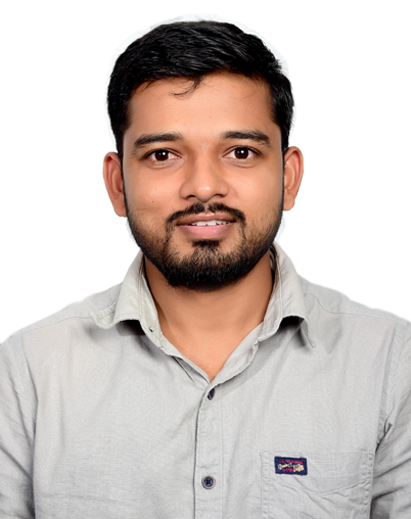
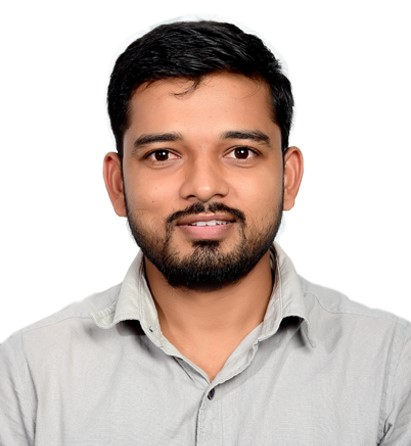
[2] revamp started

diff --git a/src/constants/data.jsx b/src/constants/data.jsx
@@ -18,11 +18,12 @@ import {
   // WordPressIcon,
   // AngularIcon,
 } from "../assets/icons/LanguageIcon";
+import { netflix } from "./const";
 
 export const portfolio = [
   {
     id: "1",
-    src: "./img/project-front-img.png",
+    src: netflix,
     techStack:"React | Redux Toolkit | Tailwind CSS | Firebase | GitHub",
     title: "Netflix GPT",
     description:
@@ -32,7 +33,7 @@ export const portfolio = [
   },
   {
     id: "2",
-    src: "./img/project-front-img.png",
+    src: netflix,
     techStack:"React | Redux Toolkit | Tailwind CSS | Firebase | GitHub",
     title: "Netflix GPT",
     description:
@@ -42,7 +43,7 @@ export const portfolio = [
   },
   {
     id: "3",
-    src: "./img/project-front-img.png",
+    src: netflix,
     techStack:"React | Redux Toolkit | Tailwind CSS | Firebase | GitHub",
     title: "Netflix GPT",
     description:

diff --git a/src/component/AboutMe.jsx b/src/component/AboutMe.jsx
@@ -50,7 +50,7 @@ export default function AboutMe() {
         <DisplayFlexCenter>
           <Avatar
             alt="Atul Jadhav"
-            src="./img/Atul Jadhav2.jpg"
+            src="https://res.cloudinary.com/dtd0guzj1/image/upload/v1706863173/Portfolio/Atul_Jadhav2_ovmnen.jpg"
             sx={{
               width: { xs: 200, sm: 350, md: 350, lg: 350, xl: 350 },
               height: { xs: 200, sm: 350, md: 350, lg: 350, xl: 350 },

diff --git a/src/component/HeroSection.jsx b/src/component/HeroSection.jsx
@@ -205,7 +205,7 @@ export default function HeroSection() {
         </Box>
       </Box>
       <Box className="hero--section--img">
-        <img src="./img/main-logo.svg" alt="main-icon" />
+        <img src="https://res.cloudinary.com/dtd0guzj1/image/upload/v1706946101/Portfolio/main-logo_vgte4k.svg" alt="main-icon" />
       </Box>
     </Box>
   );

diff --git a/src/constants/const.jsx b/src/constants/const.jsx
@@ -3,3 +3,5 @@ export const whatsappUrl = process.env.REACT_APP_WHATSAPP_URL;
 export const github = process.env.REACT_APP_GITHUB_URL;
 export const youtube = process.env.REACT_APP_YOUTUBE_URL;
 export const instagram = process.env.REACT_APP_INSTAGRAM_URL;
+
+export const netflix = process.env.REACT_APP_Netflix_URL

diff --git a/src/App.css b/src/App.css
@@ -107,7 +107,7 @@ body {
 .hero--section {
   display: grid;
   grid-template-columns: repeat(2, 1fr);
-  padding: 133.333px 85.333px 133.333px;
+  padding: 110px 85.333px 60px;
   align-items: center;
   justify-content: space-between;
   gap: 32px;
